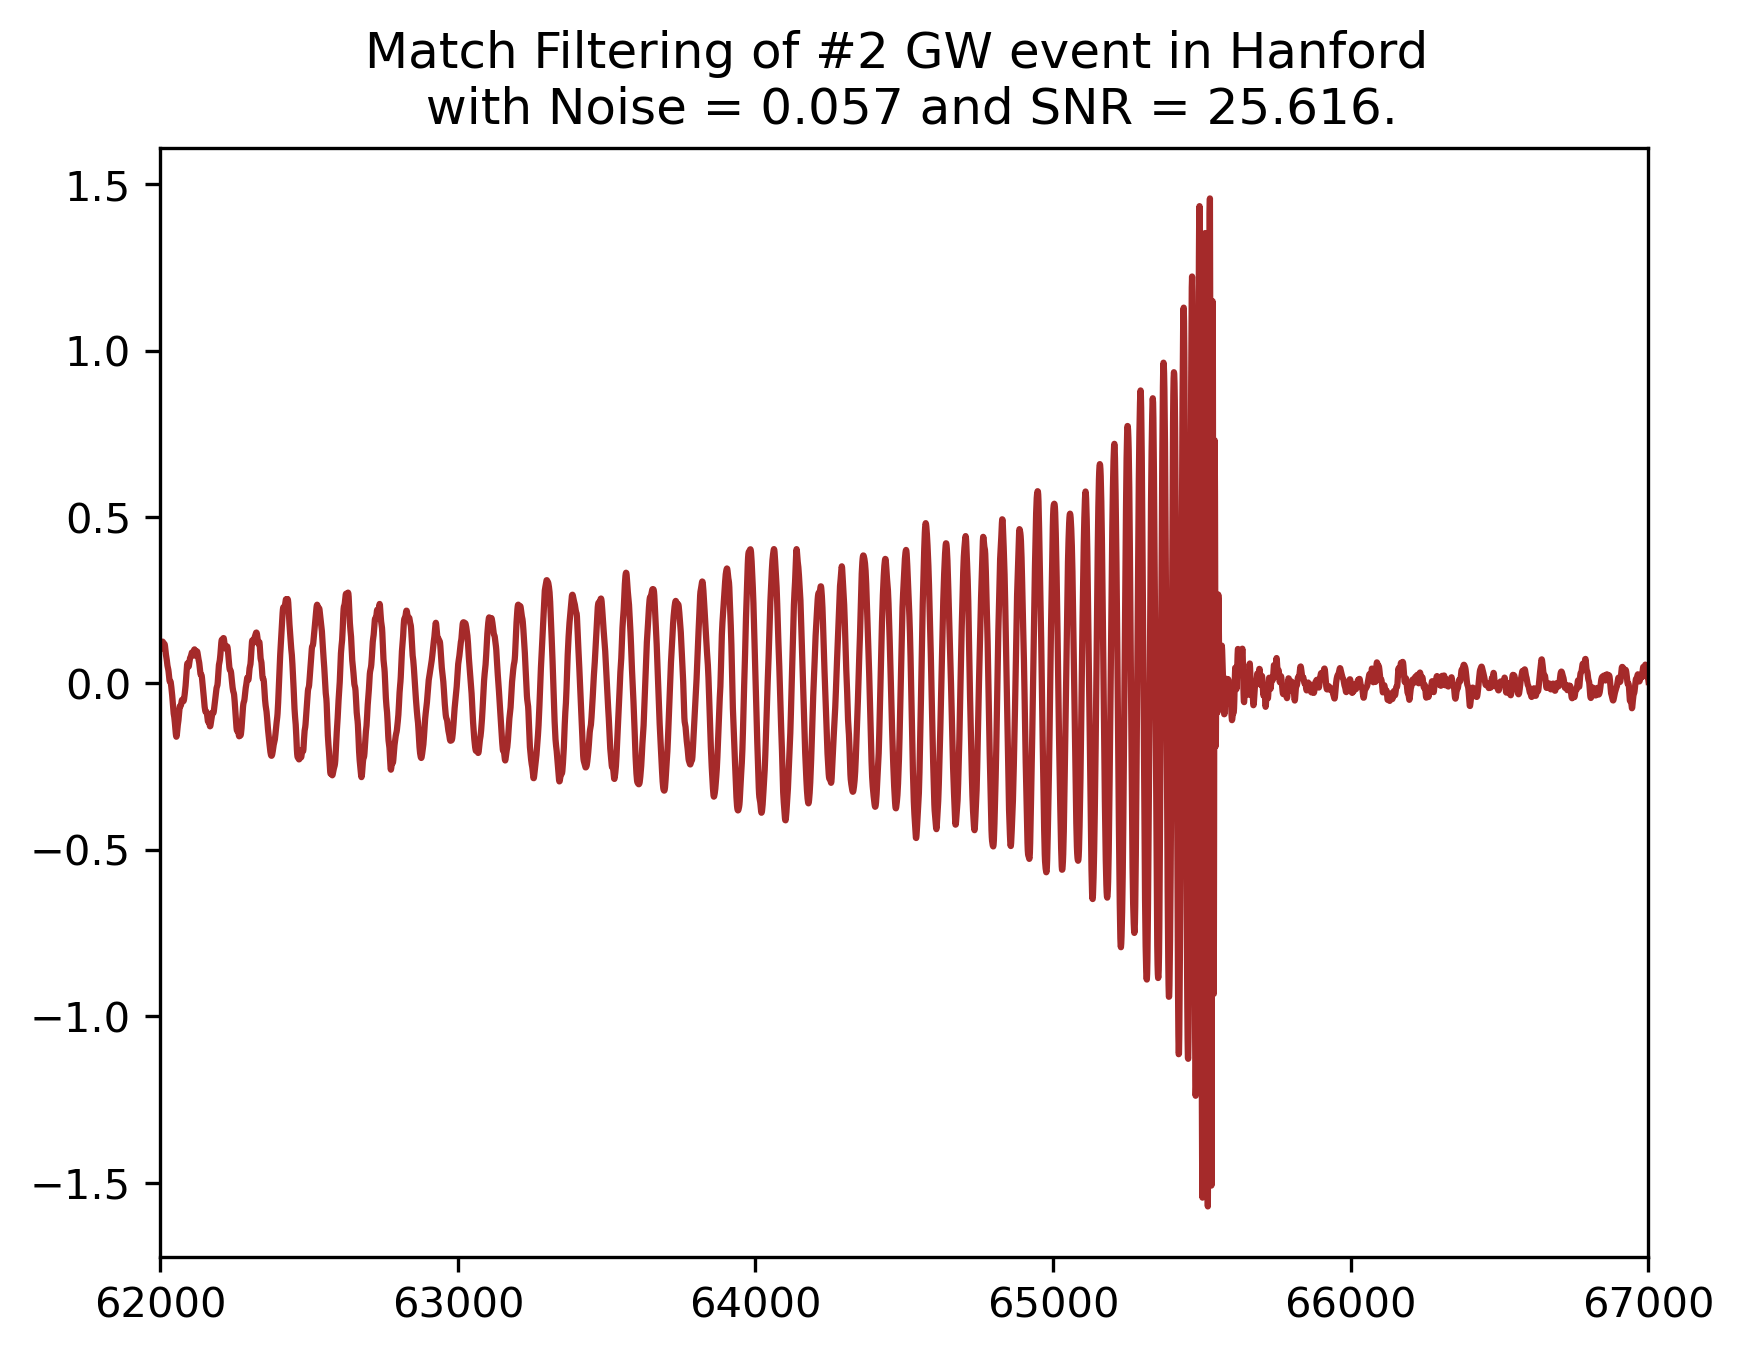
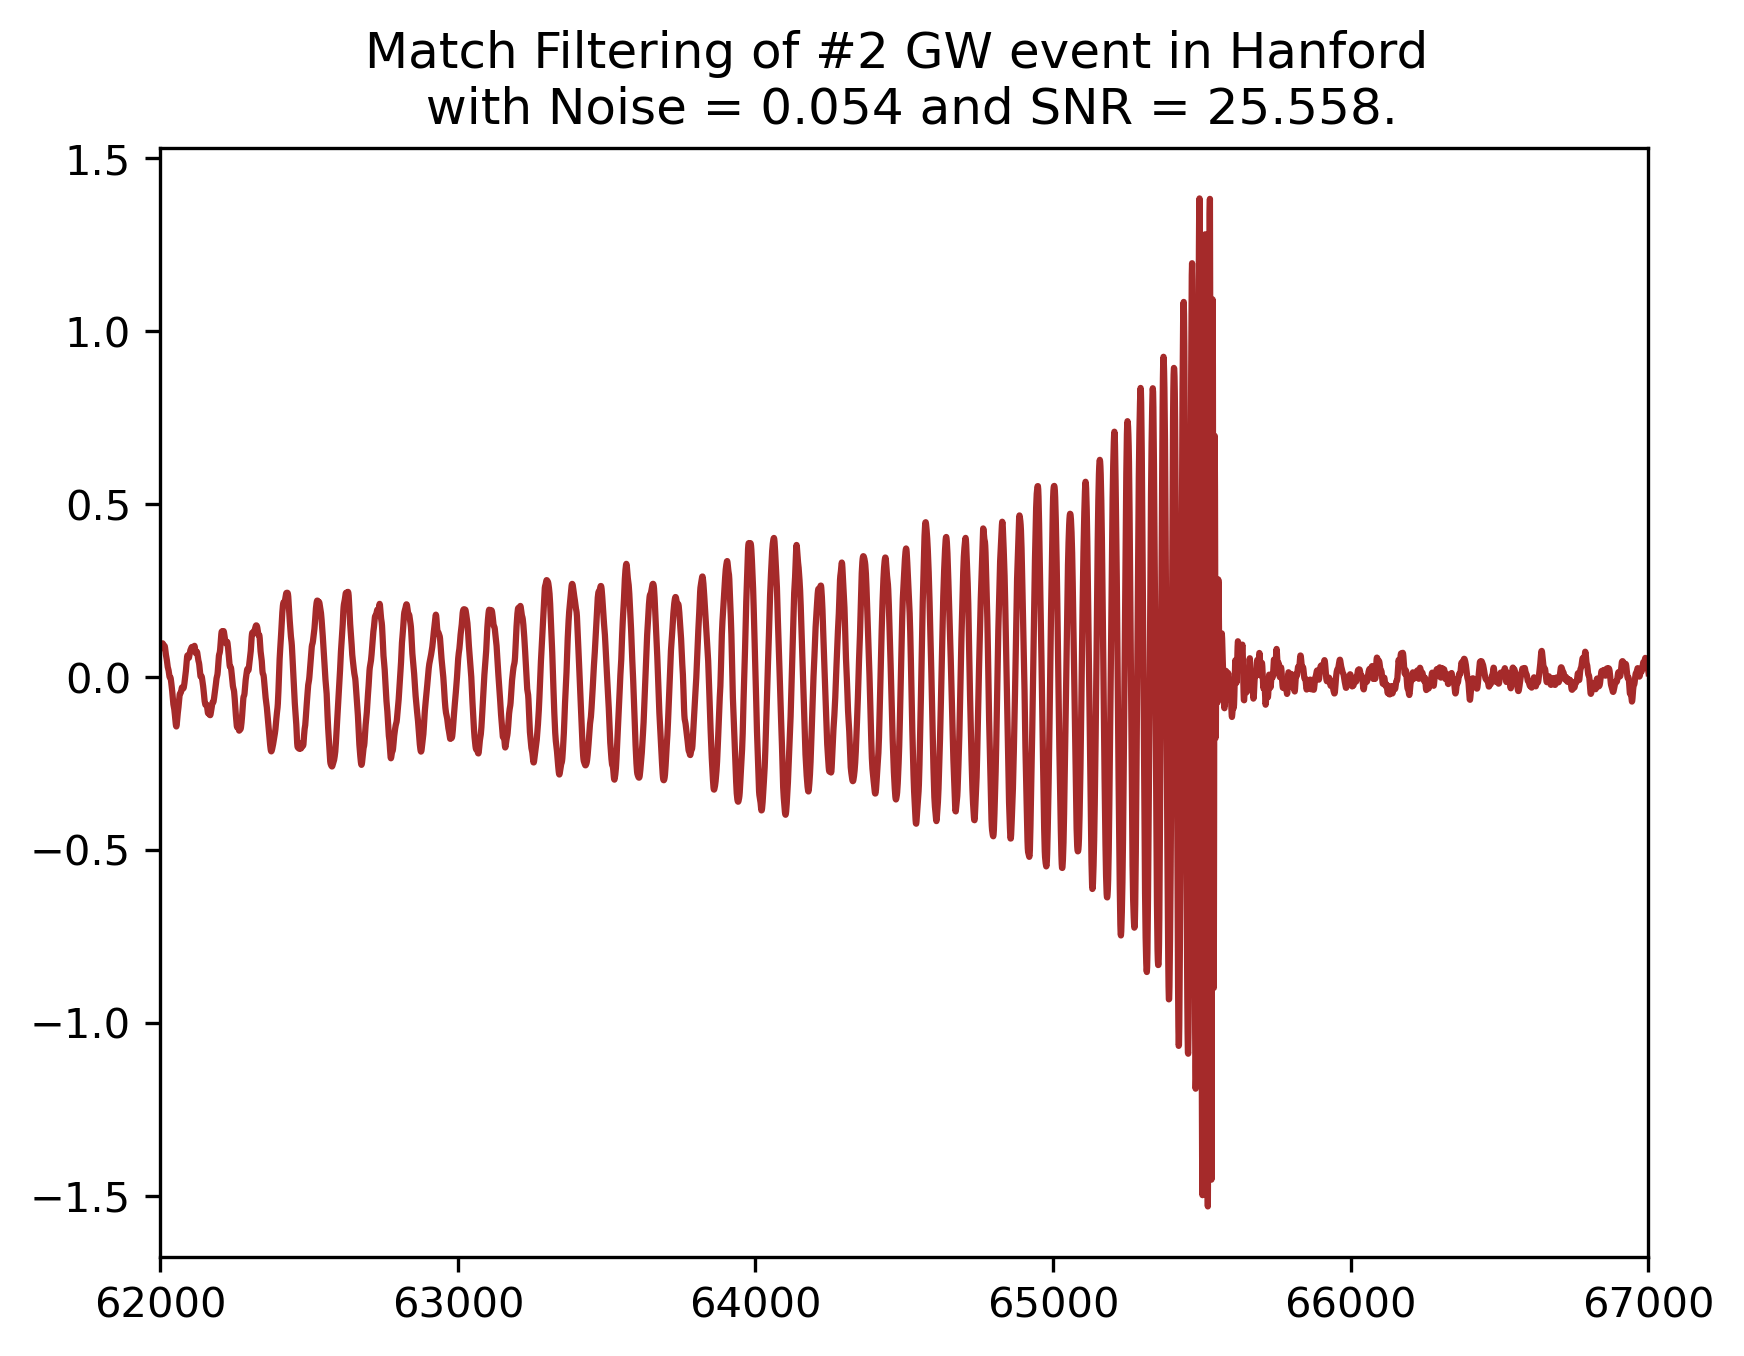
0106

diff --git a/problem_sets/ps6/ps6_1.py b/problem_sets/ps6/ps6_1.py
@@ -1,6 +1,7 @@
 import numpy as np
 from matplotlib import pyplot as plt
 from scipy.ndimage import gaussian_filter1d
+from scipy import signal
 import h5py
 import glob
 import json
@@ -9,23 +10,34 @@ exec(open("simple_read_ligo.py").read())
 f = open(r'C:\Users\wangc\PHYS512\problem_sets\ps6\LOSC_Event_tutorial\BBH_events_v3.json',)
 
 # define the window function that is flat in the middle
-def window(n,m):
-    x = np.linspace(-np.pi, np.pi, m)
-    win = 0.5 + 0.5*np.cos(x)
-    mm = m//2
-    win_flat = np.ones(n-m)
-    win_flat = np.concatenate((win[:mm],win_flat, win[-mm:]))
-    return win_flat
+# here we use the Planck-taper Window, this distribution is inspired by
+# the Planck Distribution
+def window(ep, N):
+    x = np.arange(N)
+    eN = int(ep*N)
+    win = [0]*N
+    win[:eN+1] = (1 + np.exp(eN/x - eN/(eN - x)))**(-1)
+    win[eN: -eN] = np.ones(N - 2* eN)
+    win[-eN:] = (1 + np.exp(eN/(-x + eN) - eN/x))**(-1)
+    win = win[:N]
+    return np.array(win)
+
+print(len(strain_H[0]))
+win = window(0.05, len(strain_H[0]))
+
+#win = signal.tukey(len(strain_H[0]),1/5)
+plt.plot(win)
+plt.title('The Planck-Taper Window Function')
+plt.savefig(f'Window Function.png',dpi = 300, bbox_inches = 'tight')
+plt.show()
+
 
 data = json.load(f)
 
 print(json.dumps(data, indent = 4, sort_keys=True))
 
-
-
 n  = len(strain_H[0])
 nl = len(strain_L[0])
-win = window(len(strain_H[0]), n//5)
 th_ft = np.abs(np.fft.rfft(th))
 tl_ft = np.abs(np.fft.rfft(tl))
 strain_ft = np.fft.rfft(strain_H*win)
@@ -33,19 +45,14 @@ strain_ftl = np.fft.rfft(strain_L*win)
 sft = np.sum(np.abs(strain_ft),axis = 0)/4
 sft_l = np.sum(np.abs(strain_ftl),axis = 0)/4
 
-print(sft)
-
-# for i in range(4):
-#     plt.loglog(np.abs(strain_ft[i]))
-# plt.show()
 
 # Noise Model?
 Nft_1 = np.abs(sft)**2
 Nft_2 = np.abs(sft_l)**2
 Nft = Nft_1.copy()
 Nftl = Nft_2.copy()
-# smooth out the noise model:
 
+# smooth out the noise model using a 1D Gaussian Filter
 Nft_H = gaussian_filter1d(Nft, 1)
 Nft_L = gaussian_filter1d(Nftl, 1)
 
@@ -103,7 +110,7 @@ for i in range(4):
     plt.savefig(f'GW{i + 1}_L.png', dpi=300, bbox_inches='tight')
     plt.show()
 
-xcorr = np.fft.irfft(sft*np.fft.rfft(th[0]*window(len(th[0]),n //5)))
+xcorr = np.fft.irfft(sft*np.fft.rfft(th[0]*win))
 xcorl = np.fft.irfft(sft_l*np.fft.rfft(tl[0]*win))
 plt.plot(xcorr)
 plt.plot(xcorl)
